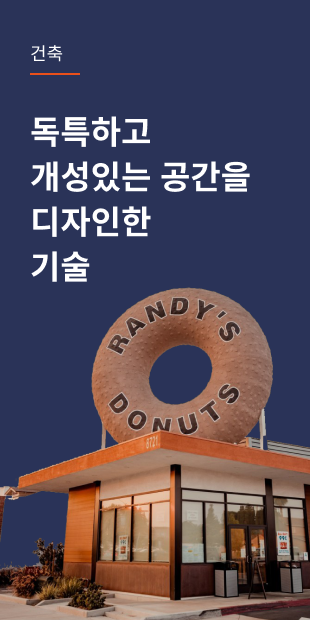
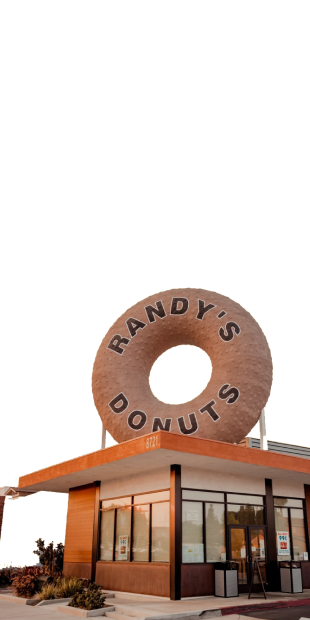
0926

diff --git a/04company/css/style.css b/04company/css/style.css
@@ -39,18 +39,30 @@ html,body{height: 100%;}
 
 .content>ul>li{
     width: 25%;height: 310px;background: orange;
+     color: #fff;
     }
 
 .content>ul>li:nth-child(2n){background: #E5E5E5;}
-.content>ul>li:nth-child(1){background: #1B4669;display: flex;justify-content: center;align-items: center;}
-.content>ul>li:nth-child(2){background: pink}
+.content>ul>li:nth-child(1){background: #1B4669;display: flex;justify-content: center;align-items: center; text-align: center;} 
+.content>ul>li:nth-child(2){background: pink }
 .content>ul>li:nth-child(3){width: 50%;}
-.content>ul>li:nth-child(4){background: #2A3358; height: 620px;}
-.content>ul>li:nth-child(5){background: #FC4F02;display: flex;justify-content: center;align-items: center;}
-.content>ul>li:nth-child(6){background: #1B4669;display: flex;justify-content: center;align-items: center;}
-.content>ul>li:nth-child(7){background: #FC4F02;display: flex;justify-content: center;align-items: center;}
+.content>ul>li:nth-child(4){position: relative;background: #2A3358; height: 620px; }
+.content>ul>li:nth-child(4) .text04{position: absolute; left: 30px; top: 37px;}
+.content>ul>li:nth-child(4) .text04 .text04_01{font-weight: bold; margin-bottom: 10px;}
+.content>ul>li:nth-child(4) .text04 .text04_01:after{
+    content:"";display: block;
+    width: 50px;height: 2px;background: #FC4F02;
+    margin-top: 15px;}
+.content>ul>li:nth-child(4) .text04 .text04_02{
+    left: 30px;
+    font-weight: bold; font-size: 33px; line-height: 47px;}
+.content>ul>li:nth-child(5){background: #FC4F02;display: flex;justify-content: center;align-items: center; text-align: center;}
+.content>ul>li:nth-child(6){background: #1B4669;display: flex;justify-content: center;align-items: center; text-align: center;}
+.content>ul>li:nth-child(7){background: #FC4F02;display: flex;justify-content: center;align-items: center; text-align: center;}
 .content>ul>li:nth-child(8){background: #FEC548;position: absolute;bottom: 0;right: 620px; display: flex;justify-content: center;align-items: center;}
-.content>ul>li:nth-child(9){position: absolute;width: 50%;right: 0;bottom: 0;background: #619CF6;}
+.content>ul>li:nth-child(9){position: absolute;background: #619CF6;width: 50%;right: 0;bottom: 0;}
+
+
 
 
 .content.icon{
@@ -133,7 +145,7 @@ html,body{height: 100%;}
         border-radius:20px 20px 0 0;overflow: hidden;
         box-shadow:0 0 20px rgba(0,0,0,0.5)
     }
-
+    
 /* container01 */
 .container01{
     background: url(../images/pop_bg.jpg) no-repeat center fixed;
@@ -268,7 +280,6 @@ a.bx-next{position:absolute;
 
     .content{width: 100%;}
     .content>ul>li{width: 50%;order:11}
-
 
     .content>ul>li:nth-child(1){order:-1}
     

diff --git a/04company/index.html b/04company/index.html
@@ -94,7 +94,19 @@
                 </div>
               </li>
               <!-- 4 -->
-              <li><img src="images/icon01_04.png" alt=""></li>
+              <li>
+                <img src="images/icon01_04.png" alt="">
+                  <div class="text04">
+                    <p class="text04_01">건축</p> 
+                    <p class="text04_02">
+                        독특하고<br>
+                        개성있는 공간을<br>
+                        디자인한 <br>
+                        기술 
+                    </p>
+                  </div>
+              </li>
+
               <!-- 5 -->
               <li><div class="icon05">
                 <img src="images/icon01_05.png" alt="">
@@ -117,9 +129,18 @@
                 <h3>이벤트</h3>
             </div></li>
               <!-- 9 -->
-              <li><div class="icon">
+              <li>
                   <img src="images/icon01_09.png" alt="">
-            </div></li>
+                  <div class="text09">
+                    <p class="text09_01">건축</p> 
+                    <p class="text09_02">
+                        독특하고<br>
+                        개성있는 공간을<br>
+                        디자인한 <br>
+                        기술 
+                    </p>
+                  </div>
+             </li>
           </ul>
         </div>
 
